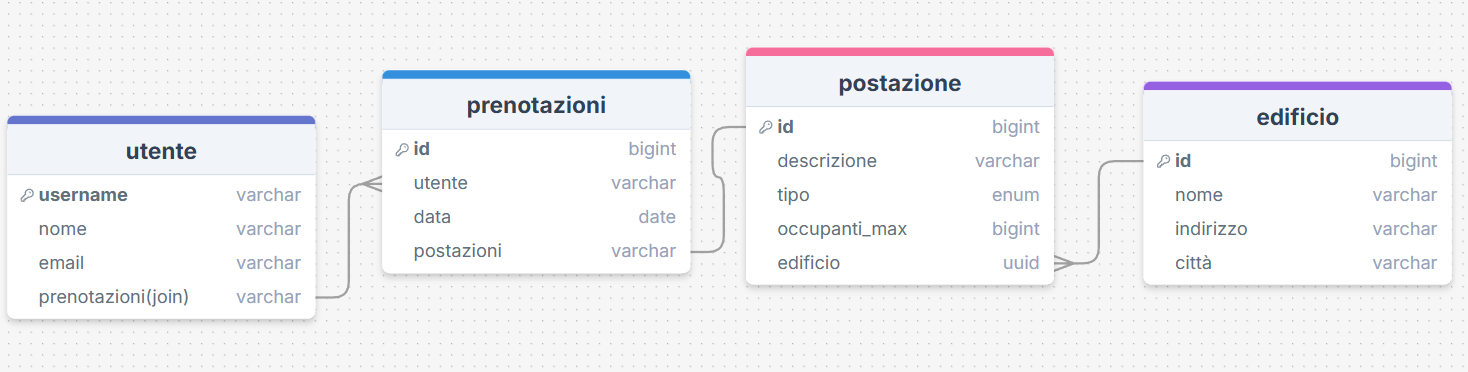
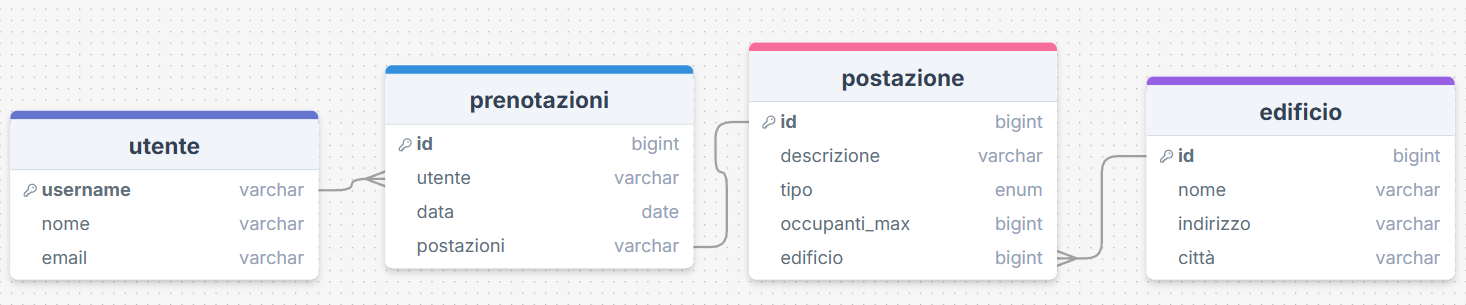
Services&Repositories

diff --git a/6.02/src/main/java/services/UtenteService.java b/6.02/src/main/java/services/UtenteService.java
@@ -1,0 +1,33 @@
+package services;
+
+import org.example._02.entities.Utente;
+import org.example._02.exception.AlreadyExist;
+import org.example._02.exception.InvalidLength;
+import org.springframework.beans.factory.annotation.Autowired;
+import org.springframework.stereotype.Service;
+import repository.UtenteRepository;
+
+@Service
+public class UtenteService {
+    private final UtenteRepository UR;
+
+    @Autowired
+    public UtenteService(UtenteRepository UR) {
+        this.UR = UR;
+    }
+
+    public void saveUtente(Utente nUtente) {
+        if (nUtente.getUsername().length() < 8) {
+            throw new InvalidLength("L'username deve essere almeno di 8 caratteri");
+        }
+        ;
+        if (UR.existsByUsername(nUtente.getUsername())) {
+            throw new AlreadyExist("Username già esistente");
+        }
+        ;
+        if (UR.existsByEmail(nUtente.getEmail())) {
+            throw new AlreadyExist("Email già registrata");
+        }
+        ;
+    }
+}

diff --git a/6.02/src/main/java/org/example/_02/entities/Postazione.java b/6.02/src/main/java/org/example/_02/entities/Postazione.java
@@ -6,6 +6,7 @@ import jakarta.persistence.*;
 @Table(name = "Postazioni")
 public class Postazione {
     @Id
+    @GeneratedValue
     private long id;
     private String descrizione;
     private Tipo_postazione tipo;
@@ -19,12 +20,16 @@ public class Postazione {
 
     ;
 
-    public Postazione(long id, String descrizione, Tipo_postazione tipo, int occupantiMax, Edificio edificio) {
+    public Postazione(String descrizione, Tipo_postazione tipo, int occupantiMax, Edificio edificio) {
         this.id = id;
         this.descrizione = descrizione;
         this.tipo = tipo;
         this.occupantiMax = occupantiMax;
         this.edificio = edificio;
+    }
+
+    public long getId() {
+        return id;
     }
 
     public String getDescrizione() {

diff --git a/6.02/src/main/java/org/example/_02/entities/Edificio.java b/6.02/src/main/java/org/example/_02/entities/Edificio.java
@@ -1,6 +1,7 @@
 package org.example._02.entities;
 
 import jakarta.persistence.Entity;
+import jakarta.persistence.GeneratedValue;
 import jakarta.persistence.Id;
 import jakarta.persistence.Table;
 
@@ -8,6 +9,7 @@ import jakarta.persistence.Table;
 @Table(name = "Edifici")
 public class Edificio {
     @Id
+    @GeneratedValue
     private long id;
     private String nome;
     private String indirizzo;
@@ -18,7 +20,7 @@ public class Edificio {
 
     ;
 
-    public Edificio(long id, String nome, String indirizzo, String citta) {
+    public Edificio(String nome, String indirizzo, String citta) {
         this.id = id;
         this.nome = nome;
         this.indirizzo = indirizzo;

diff --git a/6.02/src/main/java/org/example/_02/entities/Prenotazione.java b/6.02/src/main/java/org/example/_02/entities/Prenotazione.java
@@ -8,6 +8,7 @@ import java.util.Date;
 @Table(name = "Prenotazioni")
 public class Prenotazione {
     @Id
+    @GeneratedValue
     private long id;
     @ManyToOne
     @JoinColumn
@@ -22,7 +23,7 @@ public class Prenotazione {
 
     ;
 
-    public Prenotazione(long id, Utente utente, Date data, Postazione postazione) {
+    public Prenotazione(Utente utente, Date data, Postazione postazione) {
         this.id = id;
         this.utente = utente;
         this.data = data;

diff --git a/6.02/src/main/java/services/PrenotazioneService.java b/6.02/src/main/java/services/PrenotazioneService.java
@@ -1,0 +1,16 @@
+package services;
+
+import org.springframework.beans.factory.annotation.Autowired;
+import org.springframework.stereotype.Service;
+import repository.PrenotazioneRepository;
+
+@Service
+public class PrenotazioneService {
+    private final PrenotazioneRepository PR;
+
+    @Autowired
+    public PrenotazioneService(PrenotazioneRepository PR) {
+        this.PR = PR;
+    }
+    
+}

diff --git a/6.02/src/main/java/services/PostazioneService.java b/6.02/src/main/java/services/PostazioneService.java
@@ -1,0 +1,18 @@
+package services;
+
+import org.springframework.beans.factory.annotation.Autowired;
+import org.springframework.stereotype.Service;
+import repository.PostazioneRepository;
+
+@Service
+public class PostazioneService {
+    private final PostazioneRepository PR;
+
+    @Autowired
+    public PostazioneService(PostazioneRepository PR) {
+        this.PR = PR;
+    }
+
+
+}
+

diff --git a/6.02/src/main/java/services/EdificioService.java b/6.02/src/main/java/services/EdificioService.java
@@ -1,0 +1,17 @@
+package services;
+
+import org.springframework.beans.factory.annotation.Autowired;
+import org.springframework.stereotype.Service;
+import repository.EdificioRepository;
+
+@Service
+public class EdificioService {
+    private final EdificioRepository ER;
+
+    @Autowired
+    public EdificioService(EdificioRepository ER) {
+        this.ER = ER;
+    }
+
+}
+

diff --git a/6.02/src/main/java/repository/UtenteRepository.java b/6.02/src/main/java/repository/UtenteRepository.java
@@ -1,0 +1,12 @@
+package repository;
+
+import org.example._02.entities.Utente;
+import org.springframework.data.jpa.repository.JpaRepository;
+import org.springframework.stereotype.Repository;
+
+@Repository
+public interface UtenteRepository extends JpaRepository<Utente, String> {
+    boolean existsByUsername(String username);
+
+    boolean existsByEmail(String email);
+}

diff --git a/6.02/src/main/java/repository/PrenotazioneRepository.java b/6.02/src/main/java/repository/PrenotazioneRepository.java
@@ -1,0 +1,10 @@
+package repository;
+
+import org.example._02.entities.Prenotazione;
+import org.springframework.data.jpa.repository.JpaRepository;
+import org.springframework.stereotype.Repository;
+
+@Repository
+public interface PrenotazioneRepository extends JpaRepository<Prenotazione, Long> {
+
+}

diff --git a/6.02/src/main/java/repository/PostazioneRepository.java b/6.02/src/main/java/repository/PostazioneRepository.java
@@ -1,0 +1,10 @@
+package repository;
+
+import org.example._02.entities.Postazione;
+import org.springframework.data.jpa.repository.JpaRepository;
+import org.springframework.stereotype.Repository;
+
+@Repository
+public interface PostazioneRepository extends JpaRepository<Postazione, Long> {
+  
+}

diff --git a/6.02/src/main/java/repository/EdificioRepository.java b/6.02/src/main/java/repository/EdificioRepository.java
@@ -1,0 +1,11 @@
+package repository;
+
+import org.example._02.entities.Edificio;
+import org.springframework.data.jpa.repository.JpaRepository;
+import org.springframework.stereotype.Repository;
+
+@Repository
+public interface EdificioRepository extends JpaRepository<Edificio, Long> {
+
+
+}

diff --git a/6.02/src/main/java/org/example/_02/exception/AlreadyExist.java b/6.02/src/main/java/org/example/_02/exception/AlreadyExist.java
@@ -1,0 +1,7 @@
+package org.example._02.exception;
+
+public class AlreadyExist extends RuntimeException {
+    public AlreadyExist(String message) {
+        super(message);
+    }
+}
